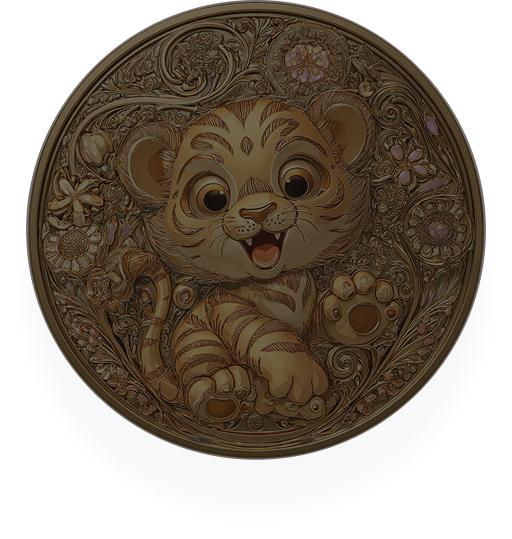
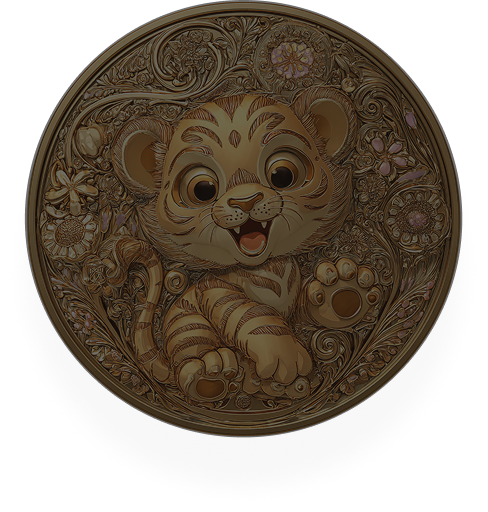
클러스터1 피그마 시안과 일치 완료
- 메달 이미지 교체 (금장_OK.png)
- 메달 wrapper/img 100→108px 확대 (상단 잘림 방지)
- 메달 margin-left 제거 (badges↔medal gap 39px 피그마 시안 일치)

diff --git a/app/assets/scss/components/_resume-card.scss b/app/assets/scss/components/_resume-card.scss
@@ -750,9 +750,8 @@
 
     .medal-image-wrapper {
       position: relative;
-      width: 100px;
-      height: 100px;
-      margin-left: -6px; // 88px 슬롯 안에서 100px를 중앙 정렬: (100-88)/2
+      width: 108px;
+      height: 108px;
       border-radius: 512px;
       overflow: hidden;
 
@@ -771,10 +770,10 @@
       }
 
       img {
-        width: 100px;
-        height: 100px;
+        width: 108px;
+        height: 108px;
         display: block;
-        object-fit: cover;
+        object-fit: contain;
         box-shadow: 0px 10px 5px rgba(0, 0, 0, 0.03);
         border-radius: 512px;
         position: relative;
